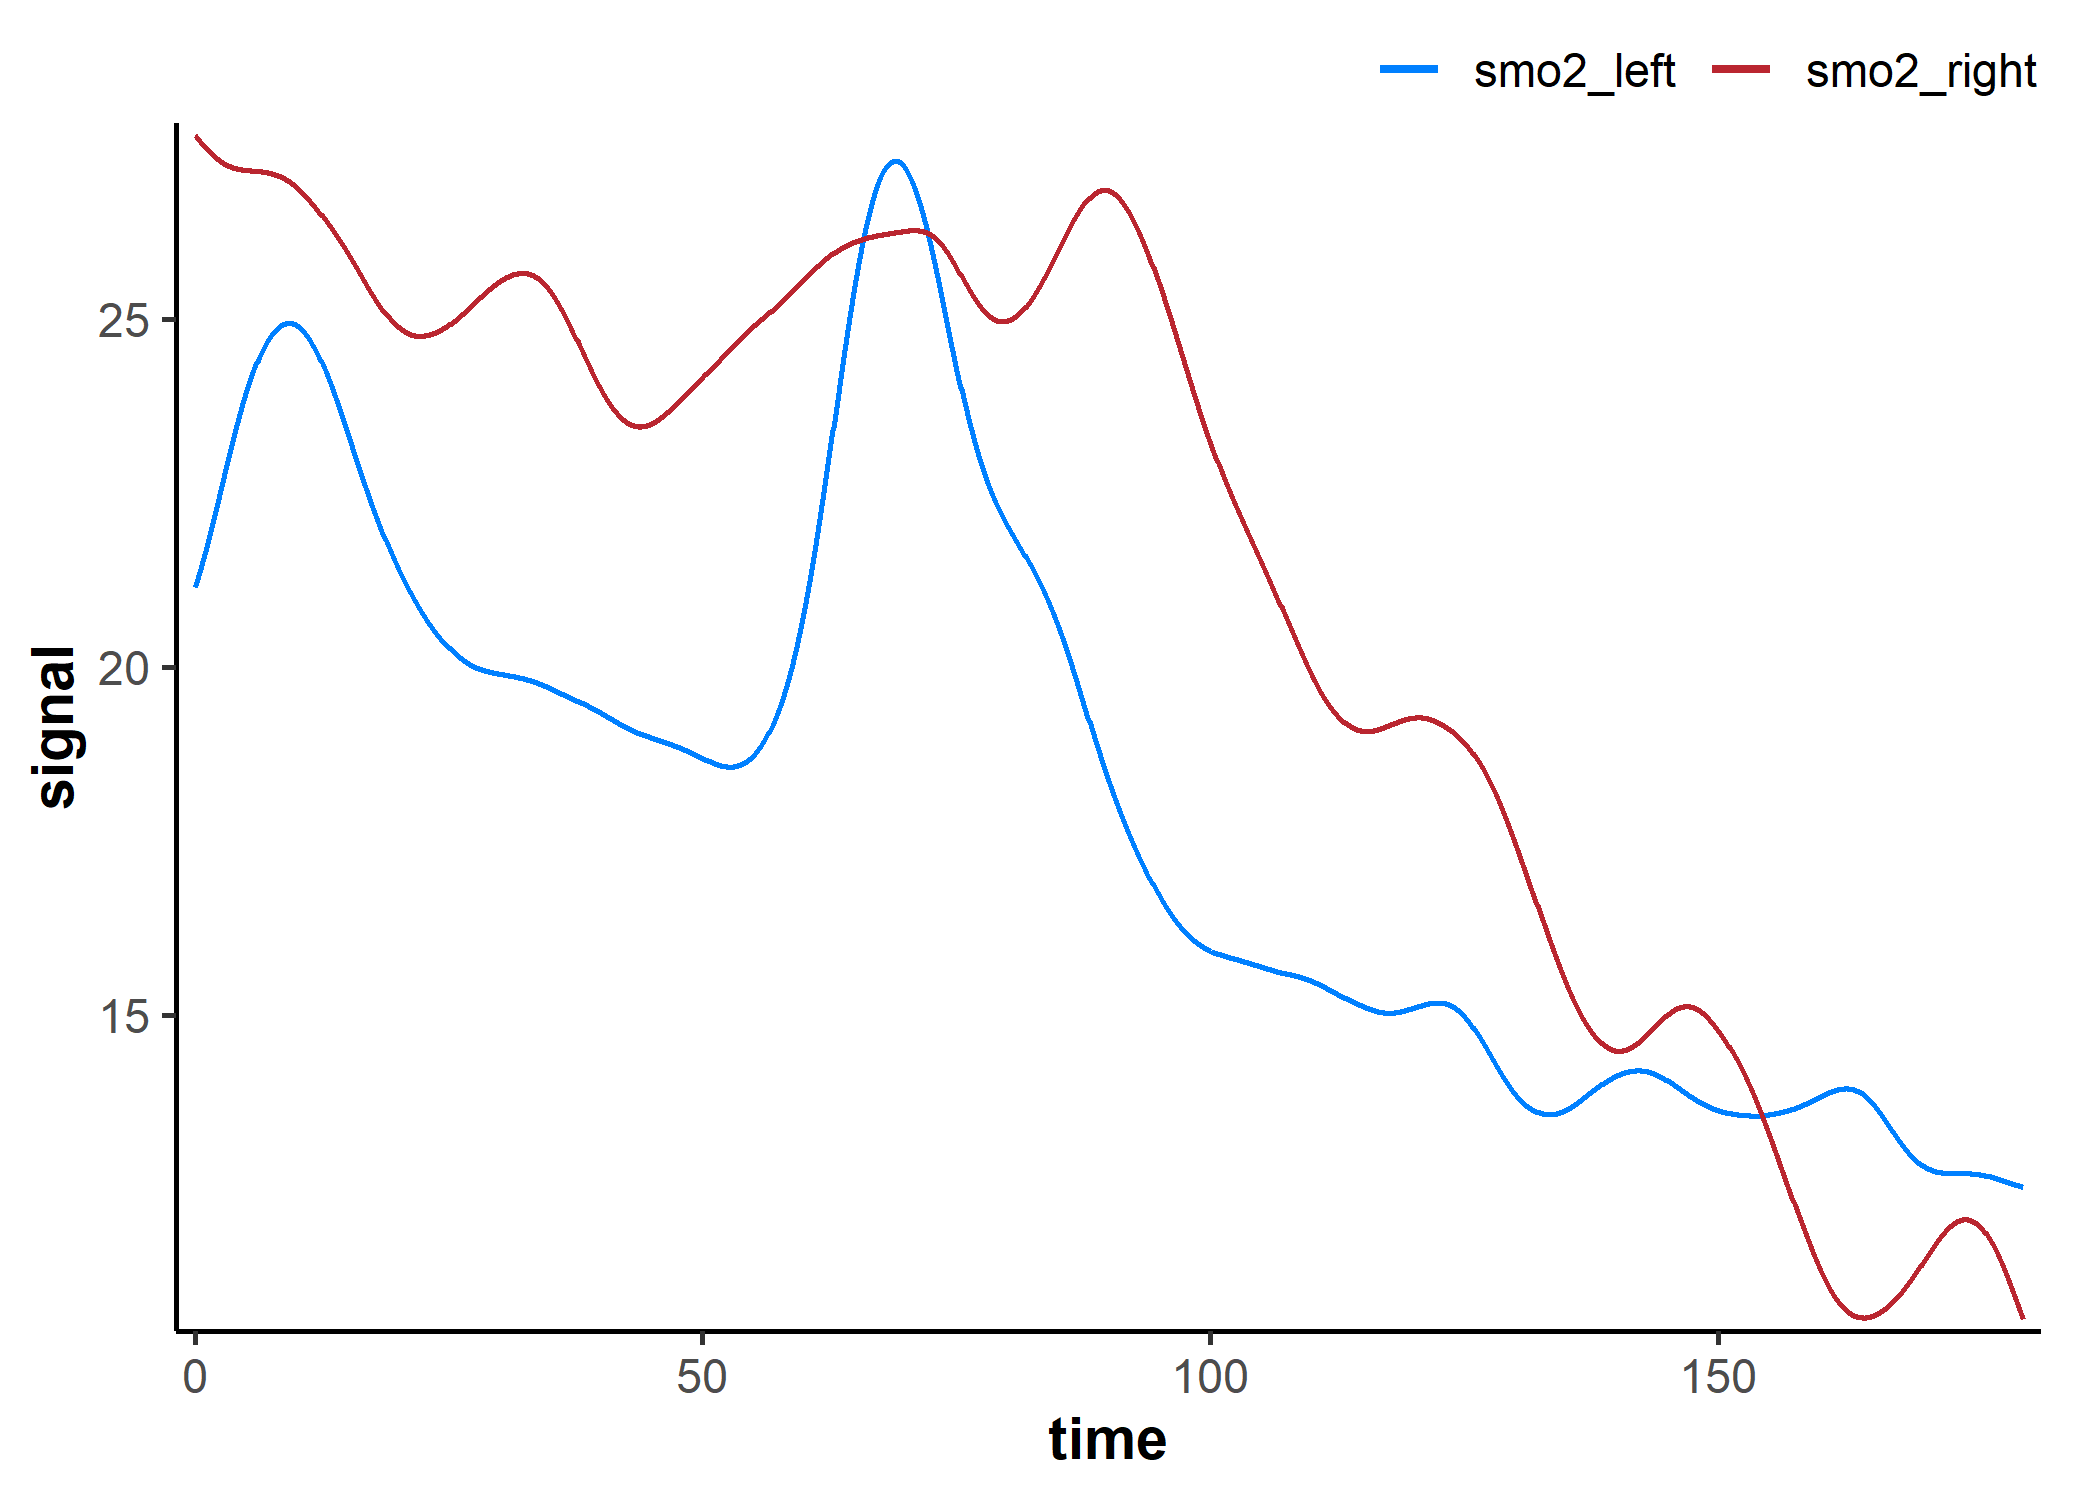
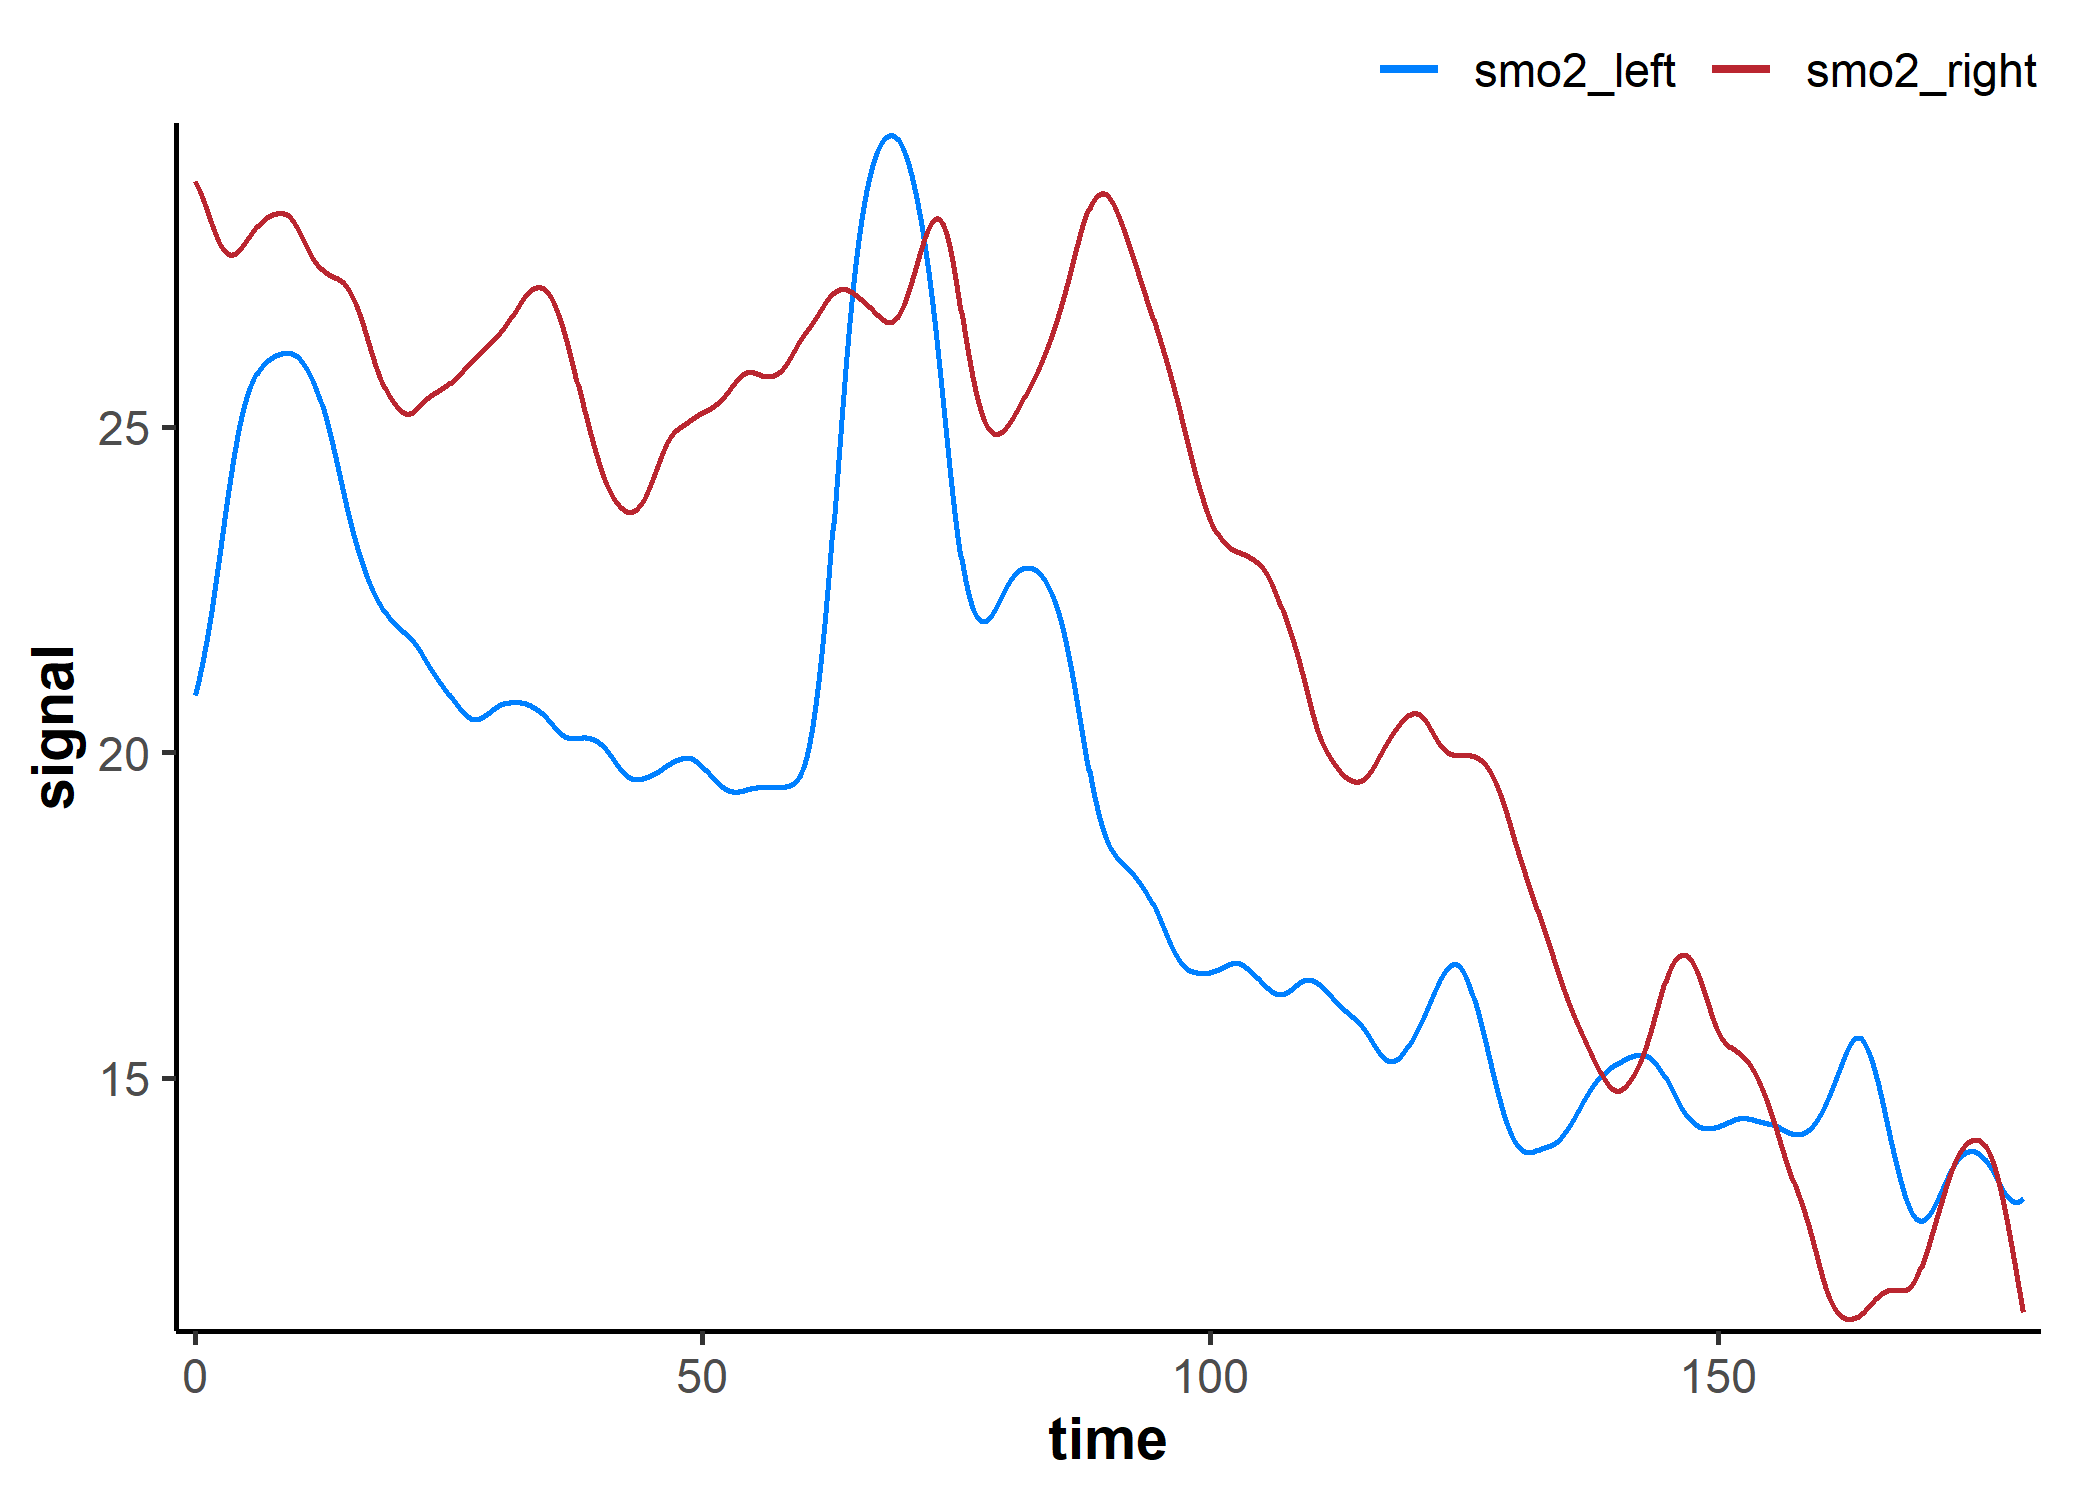
remove obsolete skipped tests

diff --git a/README.md b/README.md
@@ -270,7 +270,7 @@ nirs_data <- read_mnirs(
     filter_mnirs(
         method = "butterworth",
         order = 2,
-        W = 0.01,
+        W = 0.02,
         na.rm = TRUE
     ) |>
     shift_mnirs(
